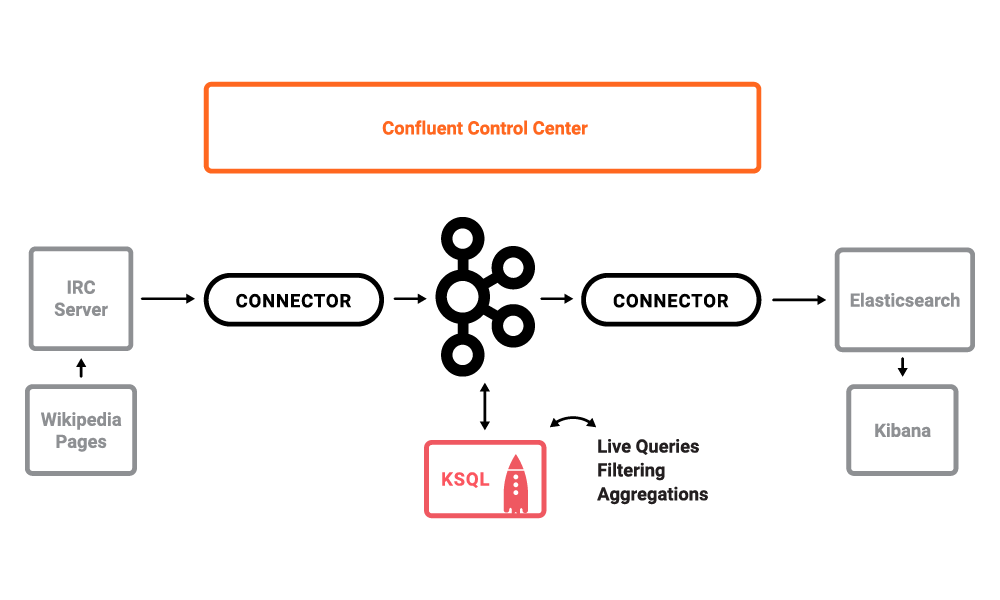
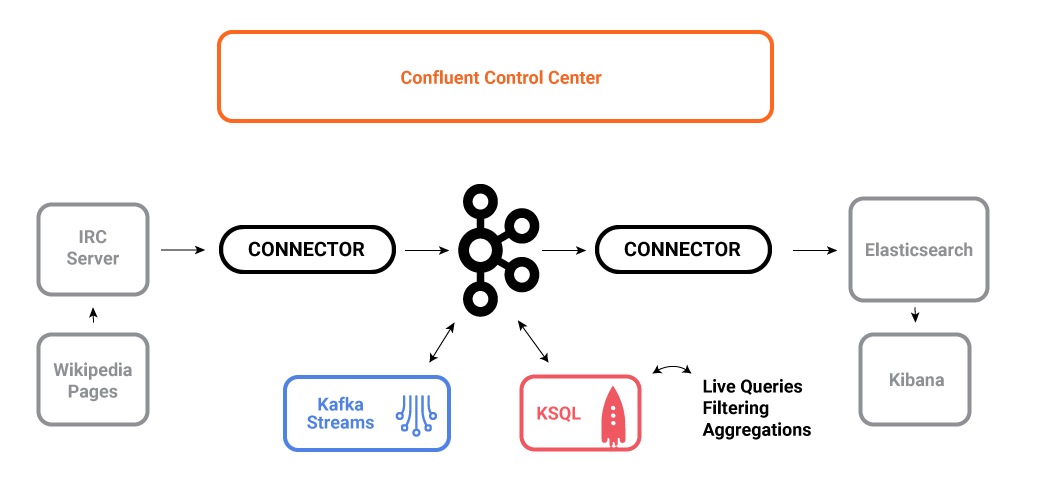
DEVX-819 refresh overview diagram. Kafka Streams instead of KStreams in docs

Changed region(s): [[0.0, 0.3607, 0.992, 0.9319], [0.186, 0.0601, 0.775, 0.3006]]

diff --git a/docs/index.rst b/docs/index.rst
@@ -3,7 +3,7 @@
 Kafka Event Streaming Application
 =================================
 
-This demo shows users how to deploy a Kafka event streaming application using `KSQL <https://www.confluent.io/product/ksql/>`__ and `KStreams <https://docs.confluent.io/current/streams/index.html>`__ for stream processing. All the components in the Confluent platform have security enabled end-to-end.
+This demo shows users how to deploy a Kafka event streaming application using `KSQL <https://www.confluent.io/product/ksql/>`__ and `Kafka Streams <https://docs.confluent.io/current/streams/index.html>`__ for stream processing. All the components in the Confluent platform have security enabled end-to-end.
 
 
 ========
@@ -126,7 +126,7 @@ Topics
    .. figure:: images/topic_inspect.png
       :alt: image
 
-6. Return to "All Topics", click on ``wikipedia.parsed.count-by-channel`` to view the KStreams application
+6. Return to "All Topics", click on ``wikipedia.parsed.count-by-channel`` to view the Kafka Streams application
 output topic.
 
    .. figure:: images/count-topic-view.png 
@@ -345,7 +345,7 @@ Consumers
    .. figure:: images/ksql_query_CSAS_WIKIPEDIABOT_consumer_lag.png
       :alt: image
 
-4. View consumer lag for the KStreams application under the consumer group id ``wikipedia-activity-monitor``.
+4. View consumer lag for the Kafka Streams application under the consumer group id ``wikipedia-activity-monitor``.
 
    .. figure:: images/activity-monitor-consumer.png
       :alt: image
@@ -591,7 +591,7 @@ skipping messages that will never be read.
 8. Return to the Data Streams view, find the ``wikipedia-activity-monitor``,
    click on ``View Details`` and then ``Topic partitions``.  From this view
    you can see the consumption status of the various topic and partitions for the
-   KStreams Application.
+   Kafka Streams Application.
 
    .. figure:: images/activity-monitor-streams.png
       :alt: image

diff --git a/README.md b/README.md
@@ -1,6 +1,6 @@
 # Kafka Event Streaming Applications
 
-This demo and accompanying playbook show users how to deploy a Kafka event streaming application using [KSQL](https://www.confluent.io/product/ksql/) and [KStreams](https://docs.confluent.io/current/streams/index.html) for stream processing. All the components in the Confluent platform have security enabled end-to-end. Run the demo with the [playbook and video tutorials](https://docs.confluent.io/current/tutorials/cp-demo/docs/index.html).
+This demo and accompanying playbook show users how to deploy a Kafka event streaming application using [KSQL](https://www.confluent.io/product/ksql/) and [Kafka Streams](https://docs.confluent.io/current/streams/index.html) for stream processing. All the components in the Confluent platform have security enabled end-to-end. Run the demo with the [playbook and video tutorials](https://docs.confluent.io/current/tutorials/cp-demo/docs/index.html).
 
 **Table of Contents**
 
